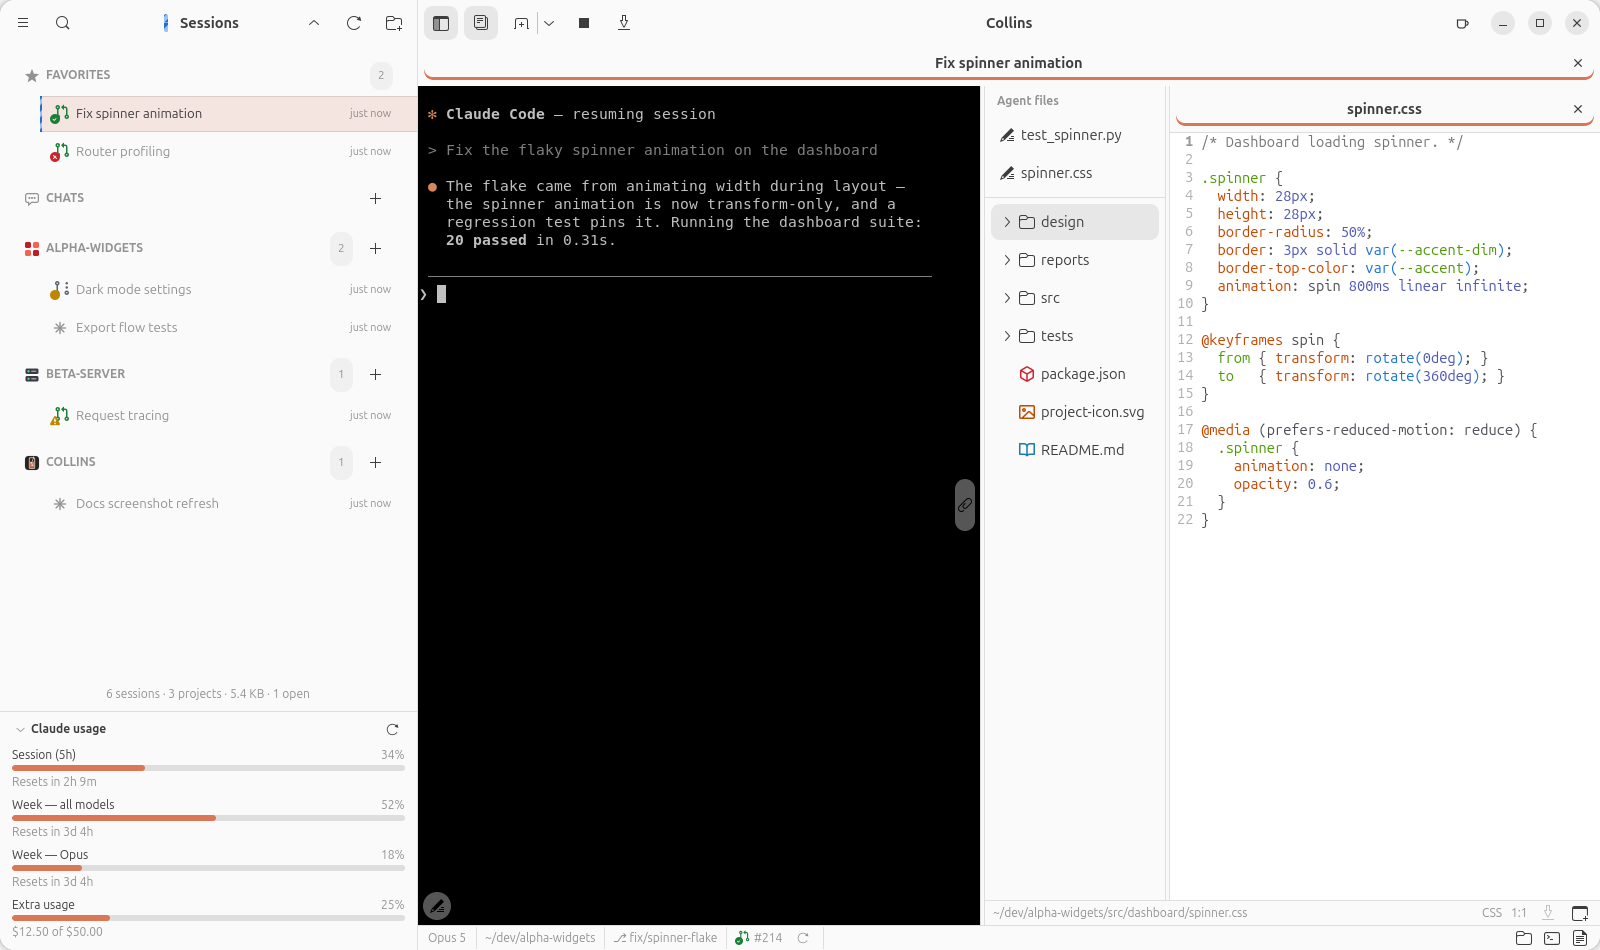
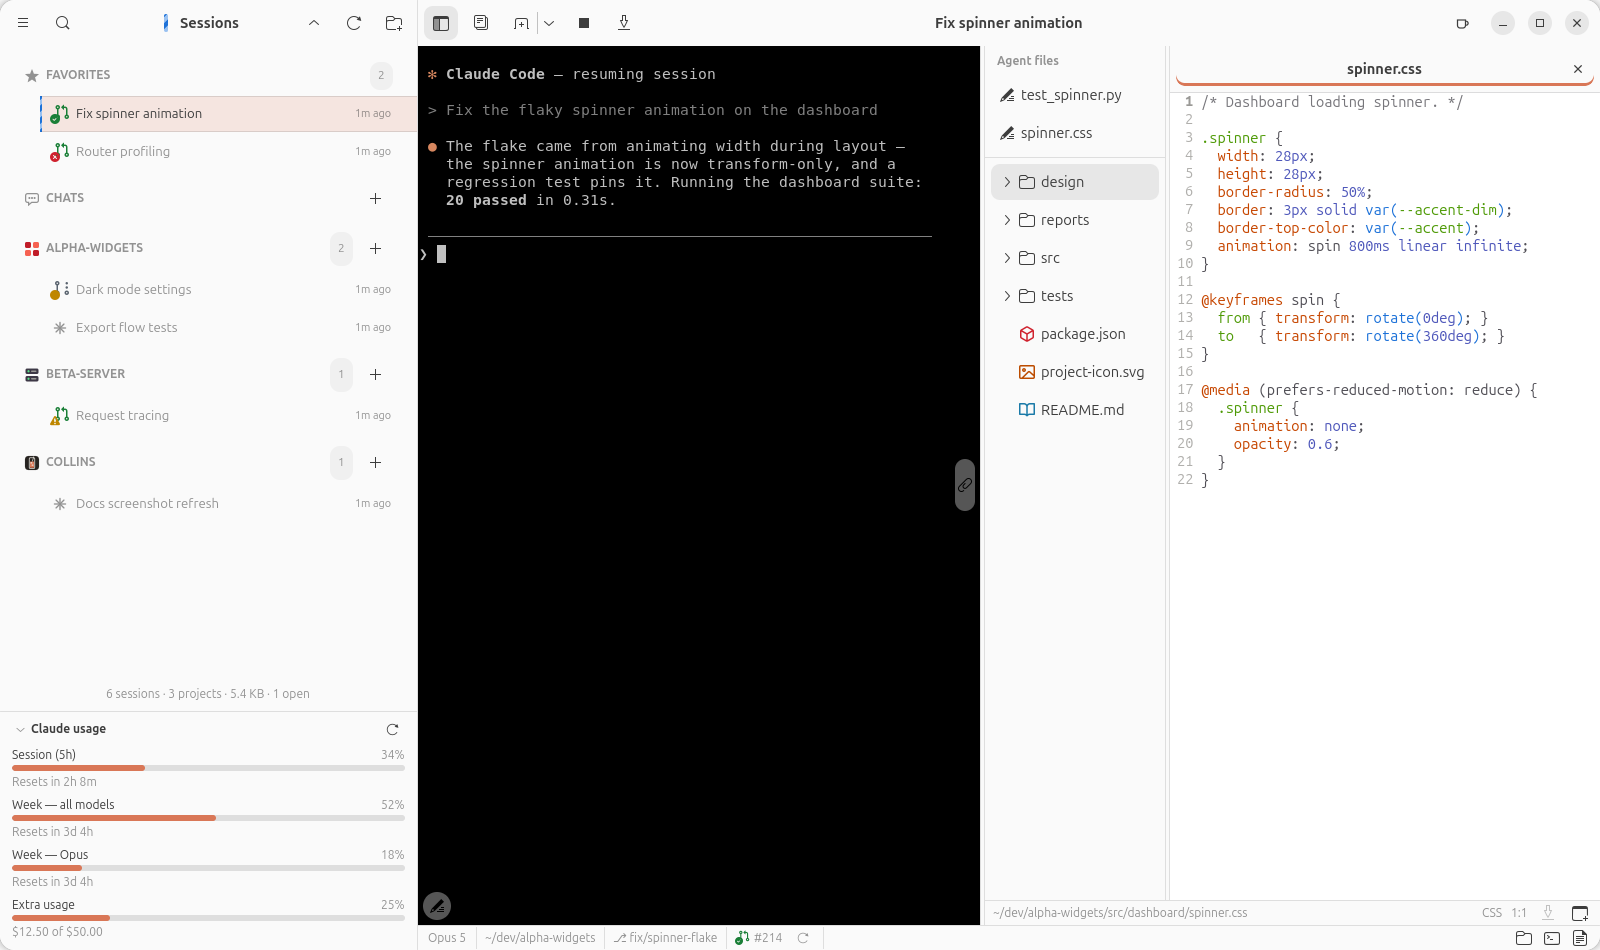
Hide the tab bar by default, and keep it out of the screenshots
The sidebar is how sessions are switched and the window title names the
active one; the row of tabs under the header is a design that predates
both, kept for anyone who still wants it behind the header's toggle. The
stored default flips to hidden, which is also how every docs screenshot
is now shot, and the README's sentence about hiding it says so.

Claude-Session: https://claude.ai/code/session_01Cbnae5HASkefmbDZzJtisb

diff --git a/collins/state.py b/collins/state.py
@@ -1,6 +1,6 @@
 # Modified from the original agent-session-manager
 # (https://github.com/r4nd3l/agent-session-manager, GPL-3.0) in the ghackett
-# fork. Last modified: 2026-08-23. Full change history: git log for this file.
+# fork. Last modified: 2026-08-27. Full change history: git log for this file.
 
 """Persistent app state: custom names, favorites, archived sessions, settings.
 
@@ -123,7 +123,11 @@ DEFAULT_SETTINGS = {
     # remotearchive.py). On by default; sessions with no remote page cost one
     # transcript scan and no network.
     "archive_on_claude_ai": True,
-    "show_tab_bar": True,  # tab bar visibility (tabs keep working underneath)
+    # The session tab bar under the header. Hidden by default: the sidebar is
+    # the intended way to move between sessions (the window title names the
+    # active one), and the tabs keep working underneath; the header's own
+    # toggle shows the bar for anyone who wants it.
+    "show_tab_bar": False,
     # A StatusNotifierItem in the top bar: presence, and a menu that jumps to
     # any open session (see statusicon.py). On by default — an icon nobody
     # knows to turn on isn't presence — and free on a desktop with no host for

diff --git a/README.md b/README.md
@@ -38,7 +38,7 @@ Features:
 - **Live sessions stand out**: a session with a tab open gets a fill in the sidebar, whether or not you're caught up on its output (a tab with unread output is marked by the tab bar itself). A session **running detached** (`/bg`) gets a **yellow guide line** and no fill — there's no tab to return to until you reopen it. While an agent is **actually working in a tab**, its row's guide line becomes a **moving blue barber pole** that stops soon after the agent does, so the sidebar says which sessions are thinking and which are waiting on you. A **red guide line** marks a session you stopped mid-task, and stays red whether or not a tab is open.
 - A **Claude usage panel** at the bottom of the sidebar shows your subscription limits (session, weekly, extra usage) as progress bars with reset countdowns — read straight from the `claude` CLI's own login, refreshed every 5 minutes (paused while the window is minimized or the screen is locked). An expired login quietly repairs itself — at launch, or when a poll finds the token dead under a running app — with one throwaway headless `claude -p` run, then re-fetches. Toggle it in Preferences.
 - **Tabs follow the sidebar's order**: left to right is the session list read top to bottom, whatever order you opened them in, and they re-arrange when the list does (drag a project to a new spot and its tabs move with it). Tabs with no row in the list — chats, replays — collect at the right-hand end; the tab bar itself isn't drag-reorderable, since the sidebar is where the order is set.
-- **Tabs** can be renamed, given an emoji prefix, or have their session ID copied (right-click → Rename… / Set emoji… / Copy session ID); renaming a session's tab updates its name everywhere. While a session tab is focused, header buttons **exit** or **background** it and close the tab immediately — no confirmation dialog — the **tab bar can be hidden** with its own header toggle (the window title then names the active tab), and the **sidebar toggles** with the header button or `F9`. **Shift+Enter** inserts a newline in the agent's prompt.
+- **Tabs** can be renamed, given an emoji prefix, or have their session ID copied (right-click → Rename… / Set emoji… / Copy session ID); renaming a session's tab updates its name everywhere. While a session tab is focused, header buttons **exit** or **background** it and close the tab immediately — no confirmation dialog — the **tab bar is hidden by default** — the window title names the active tab, and the header's toggle shows the bar for anyone who wants it, and the **sidebar toggles** with the header button or `F9`. **Shift+Enter** inserts a newline in the agent's prompt.
 - Each tab has a slim **footer** showing the agent's live working directory (click to copy; worktree-aware) and the current **git branch** (⎇), plus the terminal-panel buttons.
 - **Right-click a session** for the full action set: open, open in [Ghostty](https://ghostty.org) (external window — Ghostty can't be embedded), fork (`--fork-session`), rename, regenerate name, favorite, **details** (messages/models/tokens, a peek at recent messages, and MCP servers/usage), copy session id, export as Markdown, reveal transcript, archive, move the transcript to trash, or delete permanently. **Right-click a project header** to start a new session there (in a new window, or with the worktree setting inverted), **open its folder in another app**, or archive the whole project — projects with no visible sessions still show their header (with a `+` button) so a folder stays reachable. The open-in list carries each app's own icon: one row per app added under Preferences → *Footer apps*, plus **Open in File Manager** and **Open in Terminal** using whatever your desktop nominates for those (`$TERMINAL`, `xdg-terminals.list`, and the system's `x-terminal-emulator` are honoured, in that order).
 - **Tools the session itself can call**: every session Collins starts is offered a small MCP server of Collins' own (`collins` in its `/mcp` list), so the agent can drive the window it runs in — `notify_user` (a **desktop notification** titled with the session; it flashes the session's tab and row, flags the row until you come back, and clicking it raises that tab), `set_session_title` (the session names itself in the tab and sidebar), `open_in_editor` (put a file on your screen at a line, in the session's editor pane), `show_image` (a screenshot or render in the in-app lightbox — a file, or an `http(s)` URL Collins fetches for it), `attach_pr` (put a pull request on the session's footer and sidebar row — for one Collins can't spot on its own, like a PR opened by a subagent), `start_session` (spawn a **sibling session** in a background tab, handed a prompt and inheriting the caller's permission mode — it never steals your focus), `read_terminal` (read the terminal panel's tabs, scrollback and all), and `run_in_terminal` (type a command into an idle panel shell and run it where you can watch). Each asks permission on first use, like any MCP tool, and each has its own on/off switch in Preferences → *Built-in MCP tools* (all on by default).

diff --git a/docs/releases.md b/docs/releases.md
@@ -1,7 +1,7 @@
 <!--
 Modified from the original agent-session-manager
 (https://github.com/r4nd3l/agent-session-manager, GPL-3.0) in the ghackett
-fork. Last modified: 2026-08-26. Full change history: git log for this file.
+fork. Last modified: 2026-08-27. Full change history: git log for this file.
 -->
 
 # Releases & Roadmap
@@ -39,6 +39,13 @@ downloads of each version, see the
 
 ### v0.1.2 — UNRELEASED
 
+- **The tab bar is hidden by default.** The sidebar is where sessions are
+  switched, and the window title names the active one, so the row of tabs
+  under the header was chrome most windows never needed; the header's
+  toggle shows it again, and a window that had it showing keeps it. The
+  docs' screenshots are recaptured against the app as it is now — the
+  new-chat screen, project icons, PR marks — and the new-chat screen gets
+  a picture of its own.
 - **A PR page refresh only touches what changed.** Every refresh — the
   Refresh button, the page coming back into view, a check finishing, a
   run ending — used to rebuild the whole page from the new reply, which
